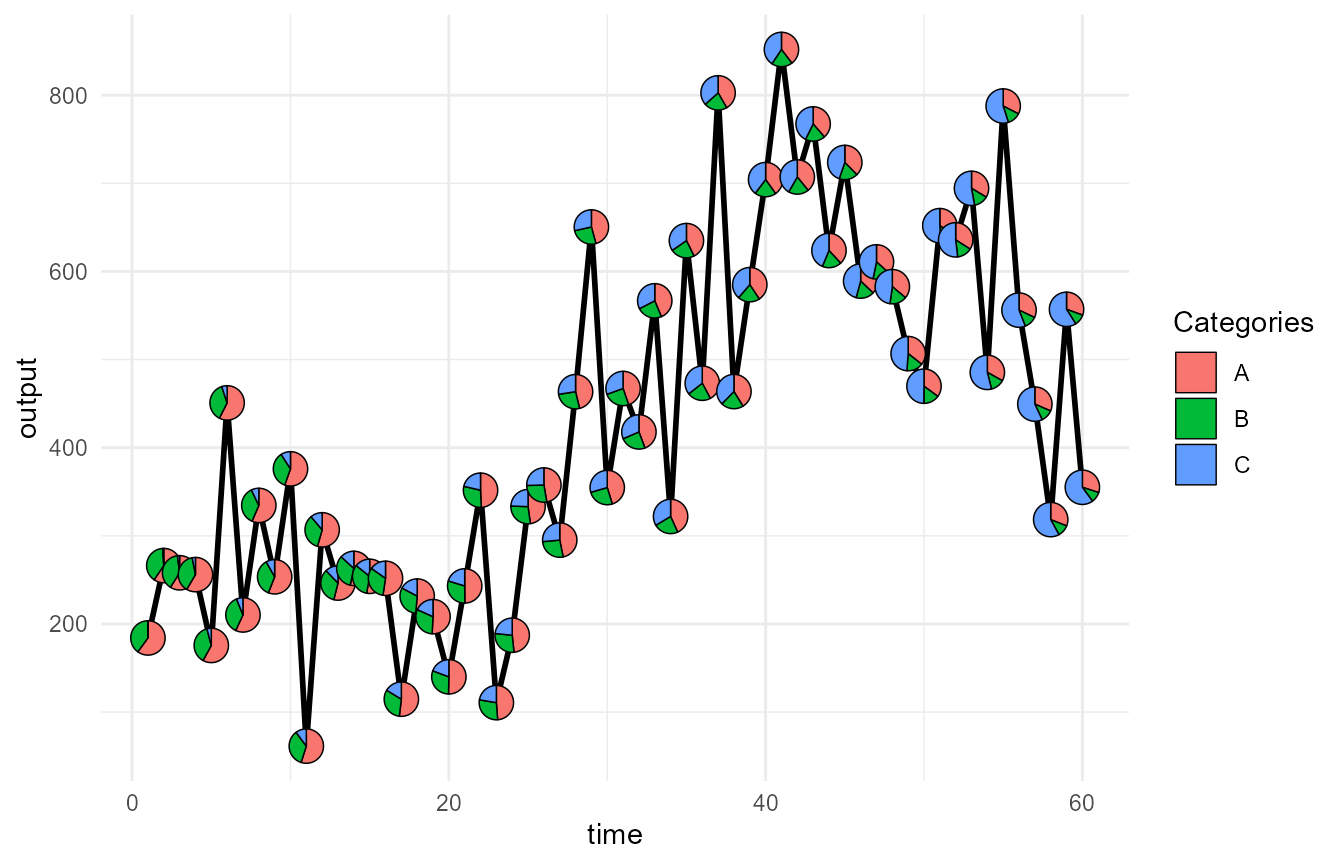
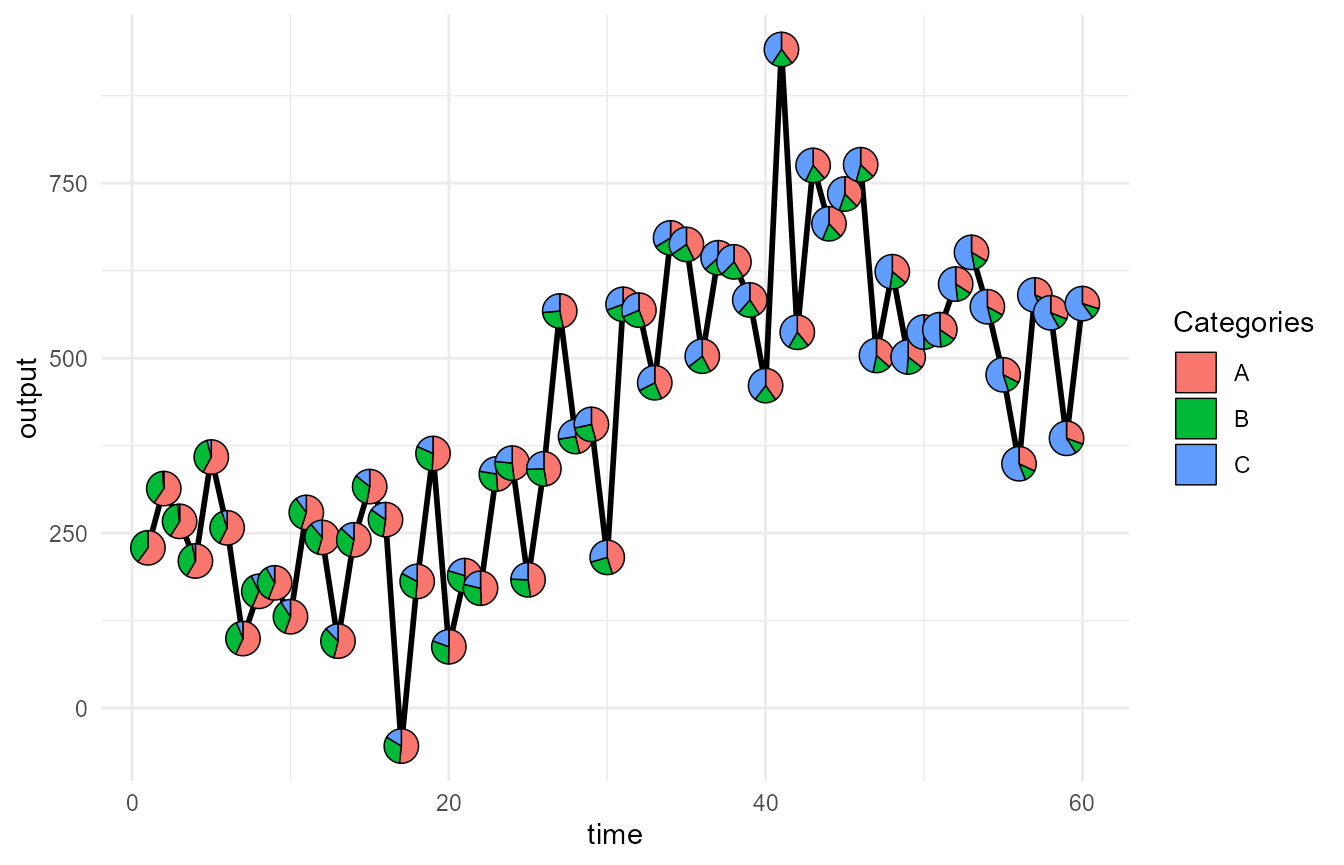
Vignettes

diff --git a/docs/reference/geom_pie_glyph.html b/docs/reference/geom_pie_glyph.html
@@ -141,15 +141,6 @@
     <div class="sourceCode"><pre class="sourceCode r"><code><span class="r-in"><span></span></span>
 <span class="r-in"><span><span class="co">## Load libraries</span></span></span>
 <span class="r-in"><span><span class="kw"><a href="https://rdrr.io/r/base/library.html" class="external-link">library</a></span><span class="op">(</span><span class="va"><a href="https://tidyverse.tidyverse.org" class="external-link">tidyverse</a></span><span class="op">)</span></span></span>
-<span class="r-msg co"><span class="r-pr">#&gt;</span> ── <span style="font-weight: bold;">Attaching packages</span> ─────────────────────────────────────── tidyverse 1.3.1 ──</span>
-<span class="r-msg co"><span class="r-pr">#&gt;</span> <span style="color: #00BB00;">✔</span> <span style="color: #0000BB;">ggplot2</span> 3.3.6     <span style="color: #00BB00;">✔</span> <span style="color: #0000BB;">purrr  </span> 0.3.4</span>
-<span class="r-msg co"><span class="r-pr">#&gt;</span> <span style="color: #00BB00;">✔</span> <span style="color: #0000BB;">tibble </span> 3.1.7     <span style="color: #00BB00;">✔</span> <span style="color: #0000BB;">dplyr  </span> 1.0.9</span>
-<span class="r-msg co"><span class="r-pr">#&gt;</span> <span style="color: #00BB00;">✔</span> <span style="color: #0000BB;">tidyr  </span> 1.2.0     <span style="color: #00BB00;">✔</span> <span style="color: #0000BB;">stringr</span> 1.4.1</span>
-<span class="r-msg co"><span class="r-pr">#&gt;</span> <span style="color: #00BB00;">✔</span> <span style="color: #0000BB;">readr  </span> 2.1.2     <span style="color: #00BB00;">✔</span> <span style="color: #0000BB;">forcats</span> 0.5.1</span>
-<span class="r-msg co"><span class="r-pr">#&gt;</span> ── <span style="font-weight: bold;">Conflicts</span> ────────────────────────────────────────── tidyverse_conflicts() ──</span>
-<span class="r-msg co"><span class="r-pr">#&gt;</span> <span style="color: #BB0000;">✖</span> <span style="color: #0000BB;">dplyr</span>::<span style="color: #00BB00;">filter()</span>         masks <span style="color: #0000BB;">stats</span>::filter()</span>
-<span class="r-msg co"><span class="r-pr">#&gt;</span> <span style="color: #BB0000;">✖</span> <span style="color: #0000BB;">dplyr</span>::<span style="color: #00BB00;">lag()</span>            masks <span style="color: #0000BB;">stats</span>::lag()</span>
-<span class="r-msg co"><span class="r-pr">#&gt;</span> <span style="color: #BB0000;">✖</span> <span style="color: #0000BB;">ggplot2</span>::<span style="color: #00BB00;">scale_radius()</span> masks <span style="color: #0000BB;">PieGlyph</span>::scale_radius()</span>
 <span class="r-in"><span><span class="kw"><a href="https://rdrr.io/r/base/library.html" class="external-link">library</a></span><span class="op">(</span><span class="va">PieGlyph</span><span class="op">)</span></span></span>
 <span class="r-in"><span></span></span>
 <span class="r-in"><span><span class="co">## Simulate raw data</span></span></span>

diff --git a/docs/index.html b/docs/index.html
@@ -117,7 +117,7 @@
 <div class="sourceCode" id="cb4"><pre class="sourceCode R"><code class="sourceCode r"><span id="cb4-1"><a href="#cb4-1" aria-hidden="true" tabindex="-1"></a><span class="fu">ggplot</span>(<span class="at">data =</span> plot_data, <span class="fu">aes</span>(<span class="at">x =</span> system, <span class="at">y =</span> response))<span class="sc">+</span></span>
 <span id="cb4-2"><a href="#cb4-2" aria-hidden="true" tabindex="-1"></a>  <span class="fu">geom_pie_glyph</span>(<span class="at">categories =</span> <span class="fu">c</span>(<span class="st">'A'</span>, <span class="st">'B'</span>, <span class="st">'C'</span>, <span class="st">'D'</span>), <span class="at">data =</span> plot_data)<span class="sc">+</span></span>
 <span id="cb4-3"><a href="#cb4-3" aria-hidden="true" tabindex="-1"></a>  <span class="fu">theme_minimal</span>()</span></code></pre></div>
-<p><img src="reference/figures/README-basic-1.png" style="display: block; margin: auto;"></p>
+<p><img src="reference/figures/index-basic-1.png" style="display: block; margin: auto;"></p>
 </div>
 <div class="section level3">
 <h3 id="alternative-specification">Alternative specification<a class="anchor" aria-label="anchor" href="#alternative-specification"></a>
@@ -151,7 +151,7 @@ The attributes can also be stacked into one column to generate the plot. The ben
 <span id="cb6-2"><a href="#cb6-2" aria-hidden="true" tabindex="-1"></a>  <span class="co"># Along with categories column, values column is also needed now</span></span>
 <span id="cb6-3"><a href="#cb6-3" aria-hidden="true" tabindex="-1"></a>  <span class="fu">geom_pie_glyph</span>(<span class="at">categories =</span> <span class="st">'Attributes'</span>, <span class="at">values =</span> <span class="st">'values'</span>)<span class="sc">+</span></span>
 <span id="cb6-4"><a href="#cb6-4" aria-hidden="true" tabindex="-1"></a>  <span class="fu">theme_minimal</span>()</span></code></pre></div>
-<p><img src="reference/figures/README-stacked-1.png" style="display: block; margin: auto;"></p>
+<p><img src="reference/figures/index-stacked-1.png" style="display: block; margin: auto;"></p>
 </div>
 </div>
 </div>

diff --git a/docs/articles/time-series-example.html b/docs/articles/time-series-example.html
@@ -148,12 +148,12 @@ attributes of the system over time.
 <div class="sourceCode" id="cb3"><pre class="downlit sourceCode r">
 <code class="sourceCode R"><span><span class="fu"><a href="https://rdrr.io/r/utils/head.html" class="external-link">head</a></span><span class="op">(</span><span class="va">plot_data</span><span class="op">)</span></span>
 <span><span class="co">#&gt;   time   output        A        B         C</span></span>
-<span><span class="co">#&gt; 1    1 184.1338 6.000000 4.000000 0.0000000</span></span>
-<span><span class="co">#&gt; 2    2 266.2534 5.949153 3.949153 0.1016949</span></span>
-<span><span class="co">#&gt; 3    3 258.0759 5.898305 3.898305 0.2033898</span></span>
-<span><span class="co">#&gt; 4    4 256.0043 5.847458 3.847458 0.3050847</span></span>
-<span><span class="co">#&gt; 5    5 175.6260 5.796610 3.796610 0.4067797</span></span>
-<span><span class="co">#&gt; 6    6 450.8577 5.745763 3.745763 0.5084746</span></span></code></pre></div>
+<span><span class="co">#&gt; 1    1 228.9582 6.000000 4.000000 0.0000000</span></span>
+<span><span class="co">#&gt; 2    2 313.6168 5.949153 3.949153 0.1016949</span></span>
+<span><span class="co">#&gt; 3    3 266.7842 5.898305 3.898305 0.2033898</span></span>
+<span><span class="co">#&gt; 4    4 210.1327 5.847458 3.847458 0.3050847</span></span>
+<span><span class="co">#&gt; 5    5 358.7147 5.796610 3.796610 0.4067797</span></span>
+<span><span class="co">#&gt; 6    6 257.5309 5.745763 3.745763 0.5084746</span></span></code></pre></div>
 <p>
 The attributes are assumed to be related to the system performance and
 they too change over time. It would be difficult to visualise the

diff --git a/pkgdown/index.md b/pkgdown/index.md
@@ -37,7 +37,7 @@ You can install the development version of `PieGlyph` from
       geom_pie_glyph(categories = c('A', 'B', 'C', 'D'), data = plot_data)+
       theme_minimal()
 
-<img src="man/figures/README-basic-1.png" style="display: block; margin: auto;" />
+<img src="man/figures/index-basic-1.png" style="display: block; margin: auto;" />
 
 ### Alternative specification
 
@@ -72,4 +72,4 @@ again in the geom\_pie\_glyph function.
       geom_pie_glyph(categories = 'Attributes', values = 'values')+
       theme_minimal()
 
-<img src="man/figures/README-stacked-1.png" style="display: block; margin: auto;" />
+<img src="man/figures/index-stacked-1.png" style="display: block; margin: auto;" />
